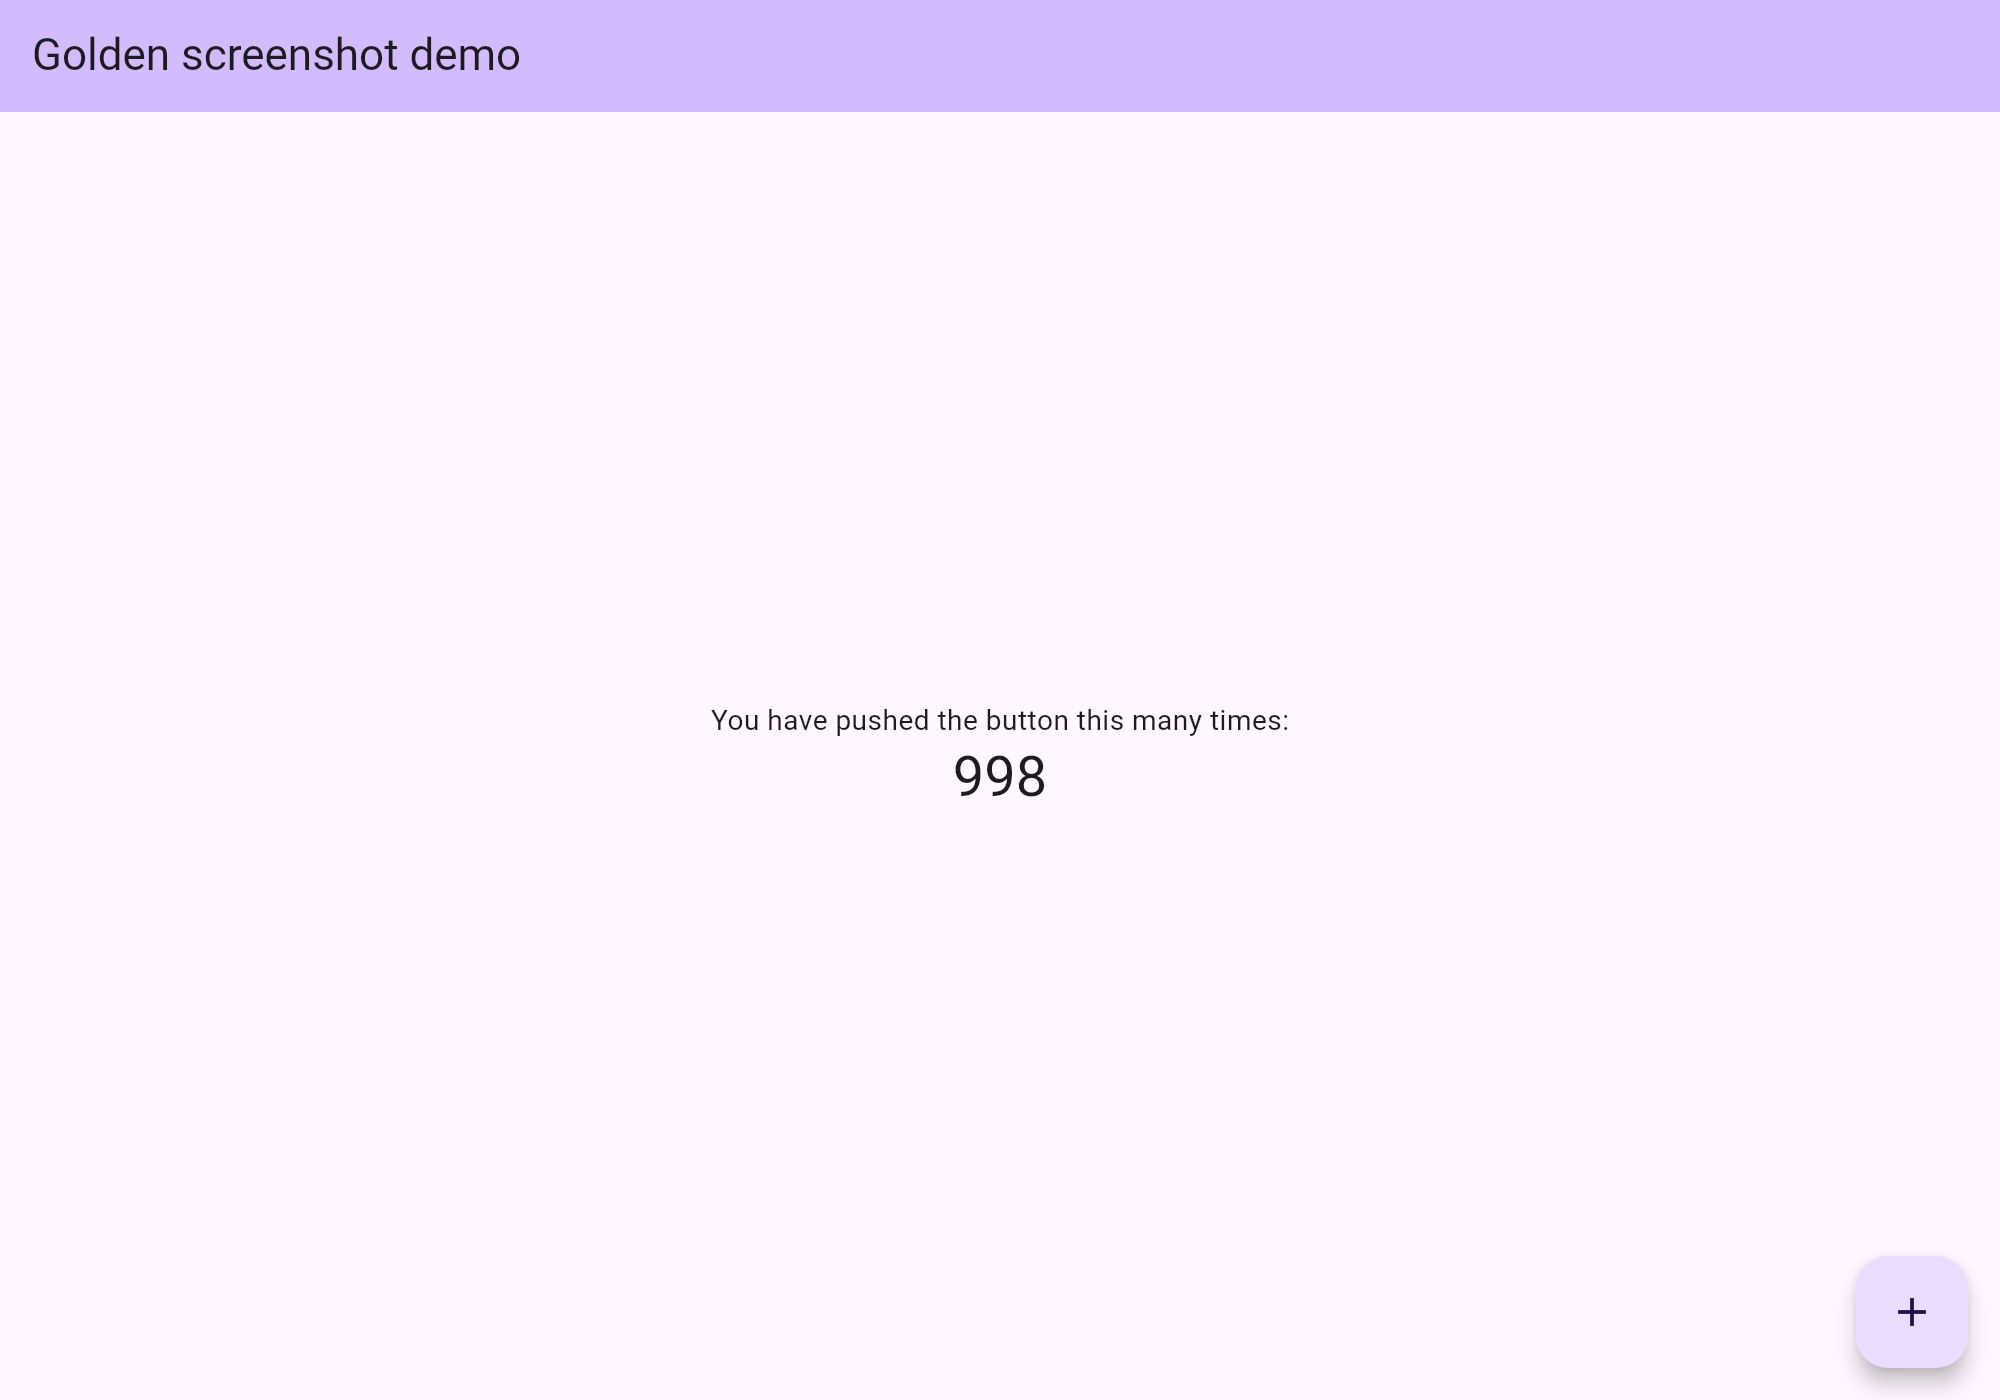
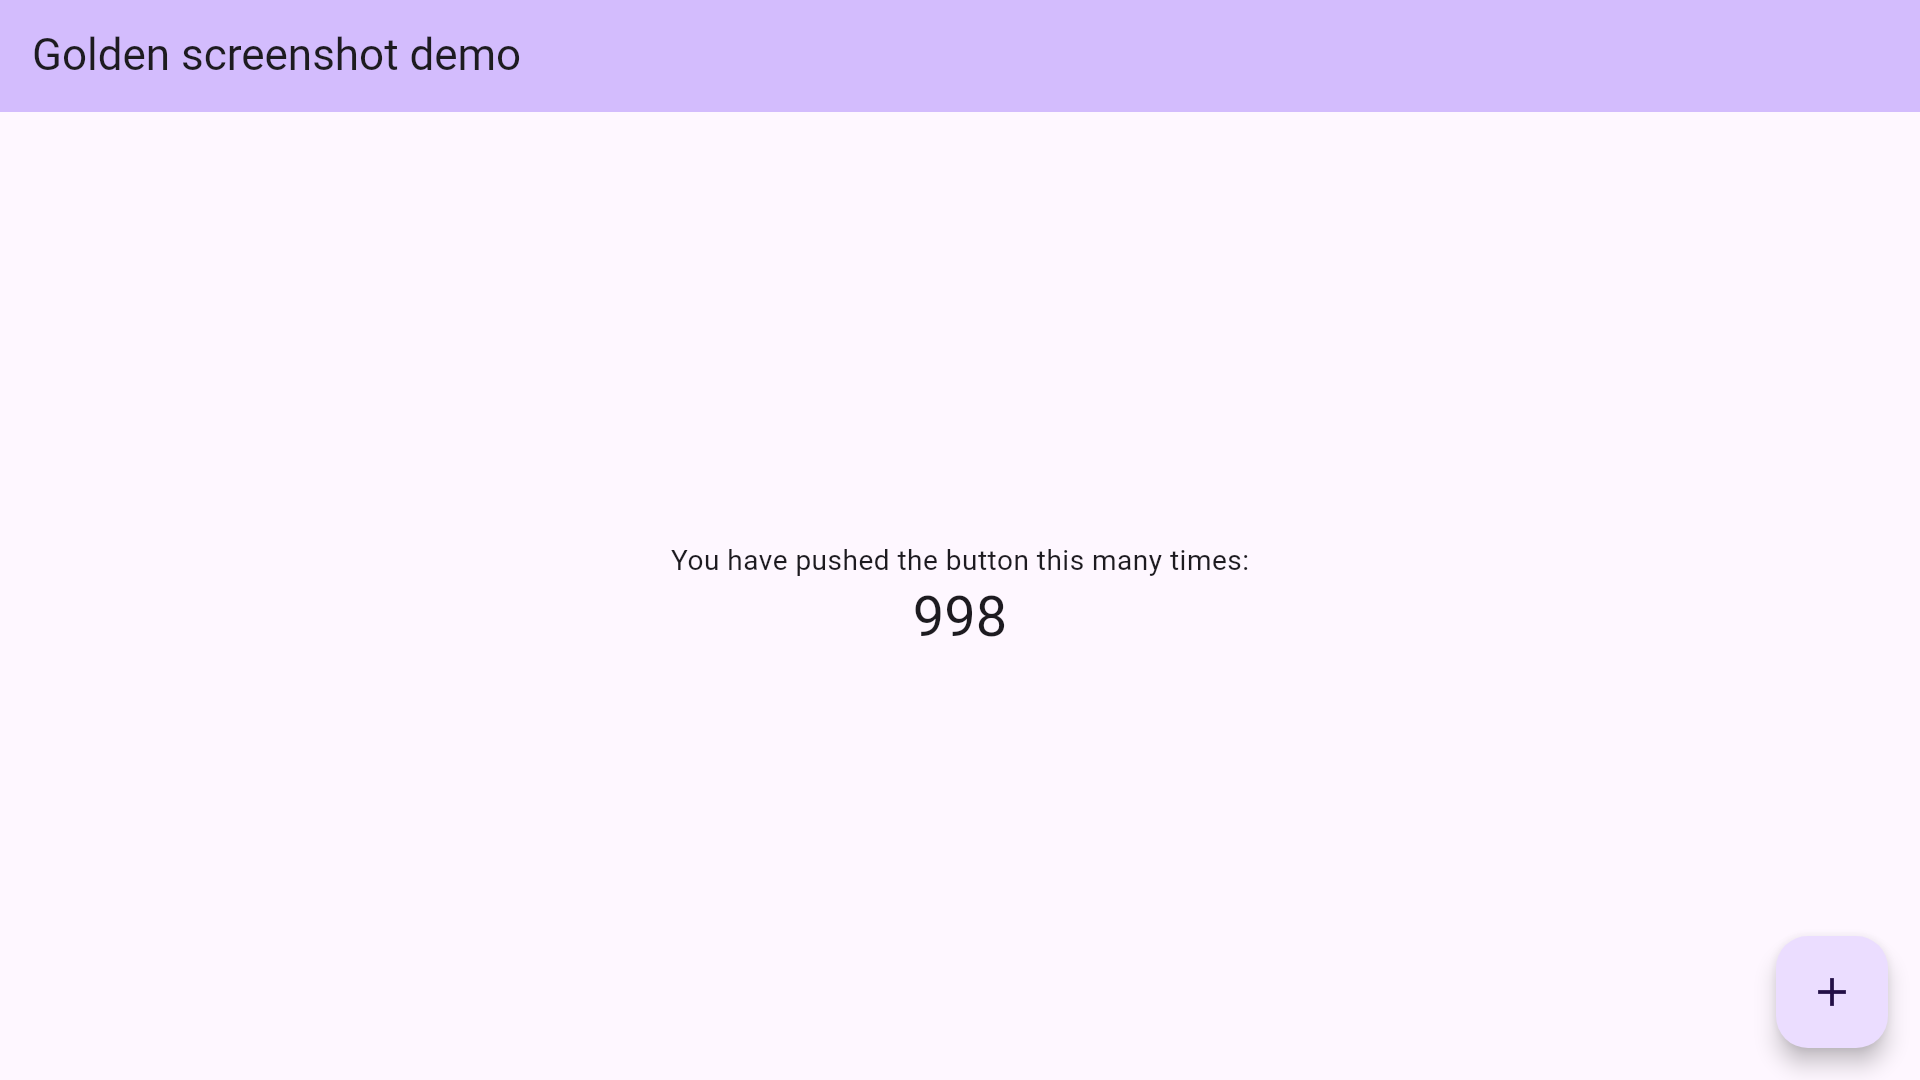
feat: make linux screenshots 16:9

Changed region(s): [[0.0, 0.0306, 1.0, 0.1222], [0.3438, 0.4889, 0.6562, 0.5806], [0.9062, 0.8556, 1.0, 0.9778]]

diff --git a/lib/src/screenshot_device.dart b/lib/src/screenshot_device.dart
@@ -6,11 +6,12 @@ import 'package:golden_screenshot/src/screenshot_frame.dart';
 enum ScreenshotDevice {
   /// A desktop/laptop running Linux.
   ///
-  /// The size is based on Flathub's guidelines for screenshots:
-  /// https://docs.flathub.org/docs/for-app-authors/metainfo-guidelines/quality-guidelines/#reasonable-window-size
+  /// The size fits Flathub's guidelines for screenshots
+  /// (https://docs.flathub.org/docs/for-app-authors/metainfo-guidelines/quality-guidelines/#reasonable-window-size)
+  /// while also being a 16:9 aspect ratio for Google Play.
   flathub(
     platform: TargetPlatform.linux,
-    resolution: Size(2000, 1400),
+    resolution: Size(1920, 1080),
     pixelRatio: 2,
     goldenFolder: '../metadata/en-US/images/tenInchScreenshots/',
     frameBuilder: ScreenshotFrame.noFrame,
